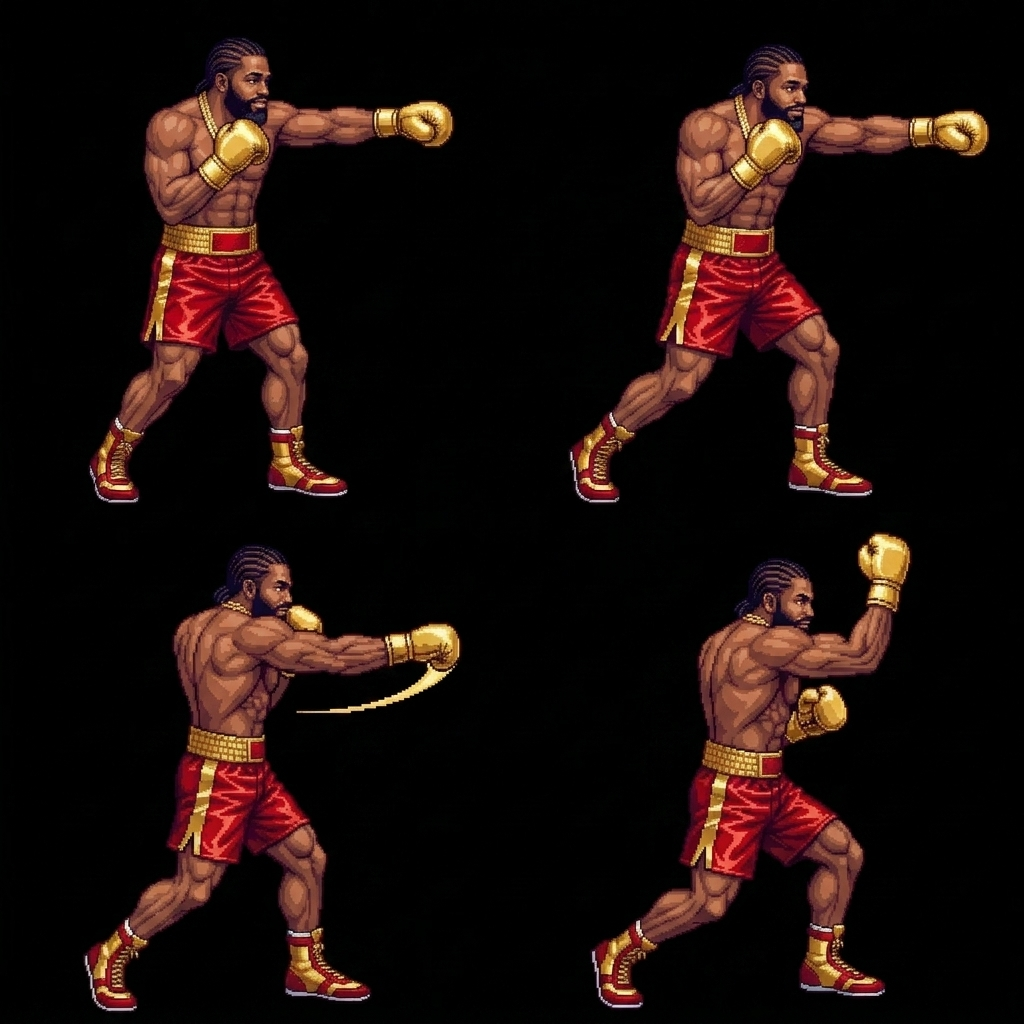
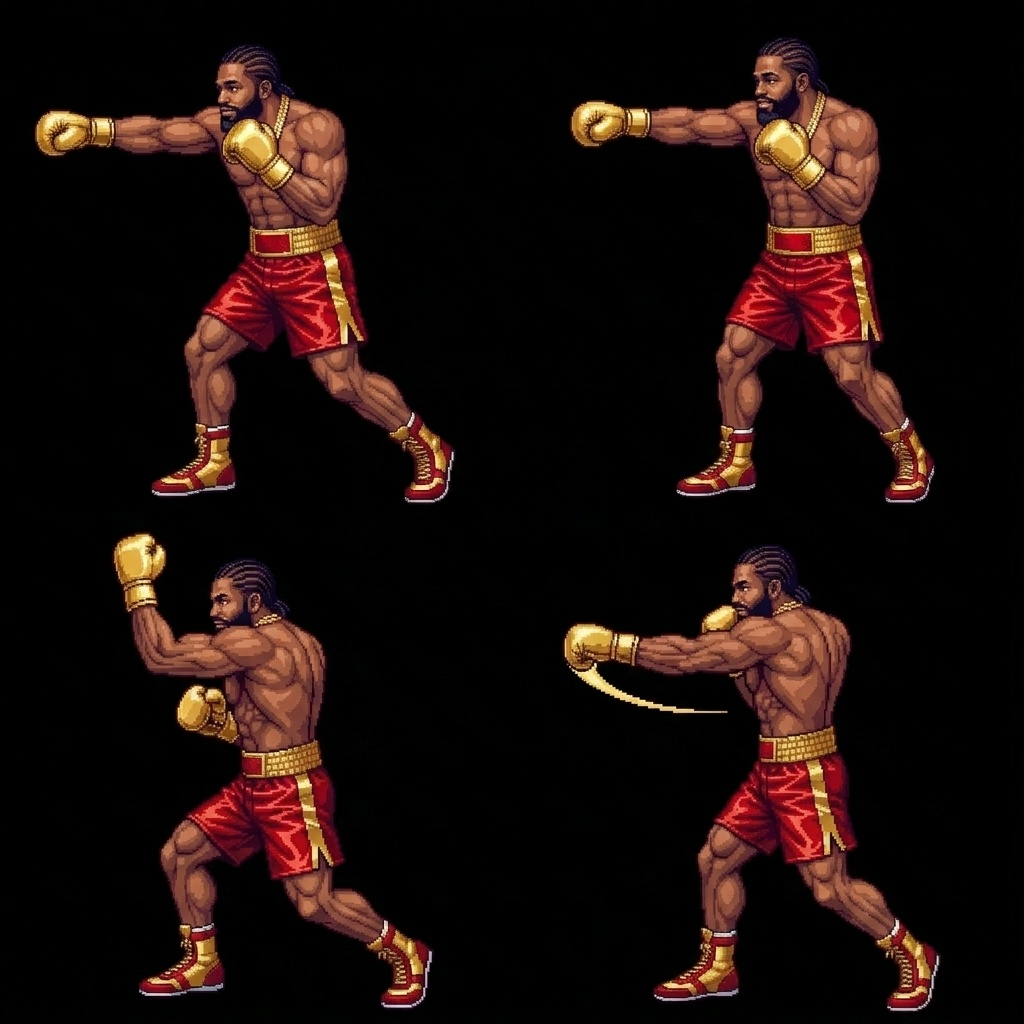
fix: standardized all physical image assets to natively face LEFT using python script and removed NATIVE_FACE dictionary

diff --git a/index.html b/index.html
@@ -1822,29 +1822,10 @@
       const fObj = isP1 ? ROSTER[p1SelectIdx] : ROSTER[p2SelectIdx];
       const fId = fObj ? fObj.id : (isP1 ? 'broner' : 'deen');
 
-      // Map of native orientations in the source image files
-      const NATIVE_FACE = {
-        broner:     { idle: 'L', punch: 'R' },
-        deen:       { idle: 'R', punch: 'L' },
-        ryan:       { idle: 'L', punch: 'L' },
-        n3on:       { idle: 'R', punch: 'R' },
-        rayj:       { idle: 'R', punch: 'R' },
-        blueface:   { idle: 'R', punch: 'R' },
-        chrisean:   { idle: 'R', punch: 'R' },
-        rampage:    { idle: 'L', punch: 'R' },
-        adin:       { idle: 'L', punch: 'R' },
-        charleston: { idle: 'R', punch: 'R' },
-        walid:      { idle: 'R', punch: 'R' },
-        abrown:     { idle: 'L', punch: 'R' },
-        tank:       { idle: 'R', punch: 'R' },
-        floyd:      { idle: 'L', punch: 'R' }
-      };
-
-      const nativeDir = usePunch ? (NATIVE_FACE[fId]?.punch || 'L') : (NATIVE_FACE[fId]?.idle || 'L');
-      // P1 (left side) must face RIGHT toward the center.
-      // P2 (right side) must face LEFT toward the center.
-      const targetDir = isP1 ? 'R' : 'L';
-      const needsFlip = (nativeDir !== targetDir);
+      // All sprites have been physically flipped on disk to natively face LEFT.
+      // P1 (left side) -> flip to face RIGHT toward center.
+      // P2 (right side) -> no flip, already faces LEFT toward center.
+      const needsFlip = isP1;
 
       ctx.translate(fx + 11, fy + 20);
       if (needsFlip) {

diff --git a/flip.py b/flip.py
@@ -1,0 +1,65 @@
+import os
+from PIL import Image
+
+# Dictionary of which sprites need to be flipped horizontally to face LEFT
+FLIP_MAP = {
+    'broner_sprite.jpg': False,
+    'broner_punches.jpg': True,
+    
+    'deen_sprite.jpg': True,
+    'deen_punches.jpg': False,
+    
+    'ryan_sprite.jpg': False,
+    'ryan_punches.jpg': False,
+    
+    'n3on_sprite.jpg': True,
+    'n3on_punches.jpg': True,
+    
+    'rayj_sprite.jpg': True,
+    'rayj_punches.jpg': True,
+    
+    'blueface_sprite.jpg': True,
+    'blueface_punches.jpg': True,
+    
+    'chrisean_sprite.jpg': True,
+    'chrisean_punches.jpg': True,
+    
+    'rampage_sprite.jpg': False,
+    'rampage_punches.jpg': True,
+    
+    'adin_sprite.jpg': False,
+    'adin_punches.jpg': True,
+    
+    'charleston_sprite.jpg': True,
+    'charleston_punches.jpg': True,
+    
+    'walid_sprite.jpg': True,
+    'walid_punches.jpg': True,
+    
+    'abrown_sprite.jpg': False,
+    'abrown_punches.jpg': True,
+    
+    'tank_sprite.jpg': True,
+    'tank_punches.jpg': True,
+    
+    'floyd_sprite.jpg': False,
+    'floyd_punches.jpg': True,
+}
+
+assets_dir = 'assets'
+
+for filename, needs_flip in FLIP_MAP.items():
+    if needs_flip:
+        filepath = os.path.join(assets_dir, filename)
+        if os.path.exists(filepath):
+            try:
+                img = Image.open(filepath)
+                flipped = img.transpose(Image.FLIP_LEFT_RIGHT)
+                flipped.save(filepath, quality=95)
+                print(f"Flipped {filename}")
+            except Exception as e:
+                print(f"Error flipping {filename}: {e}")
+        else:
+            print(f"Warning: {filename} not found.")
+
+print("Done flipping sprites.")
